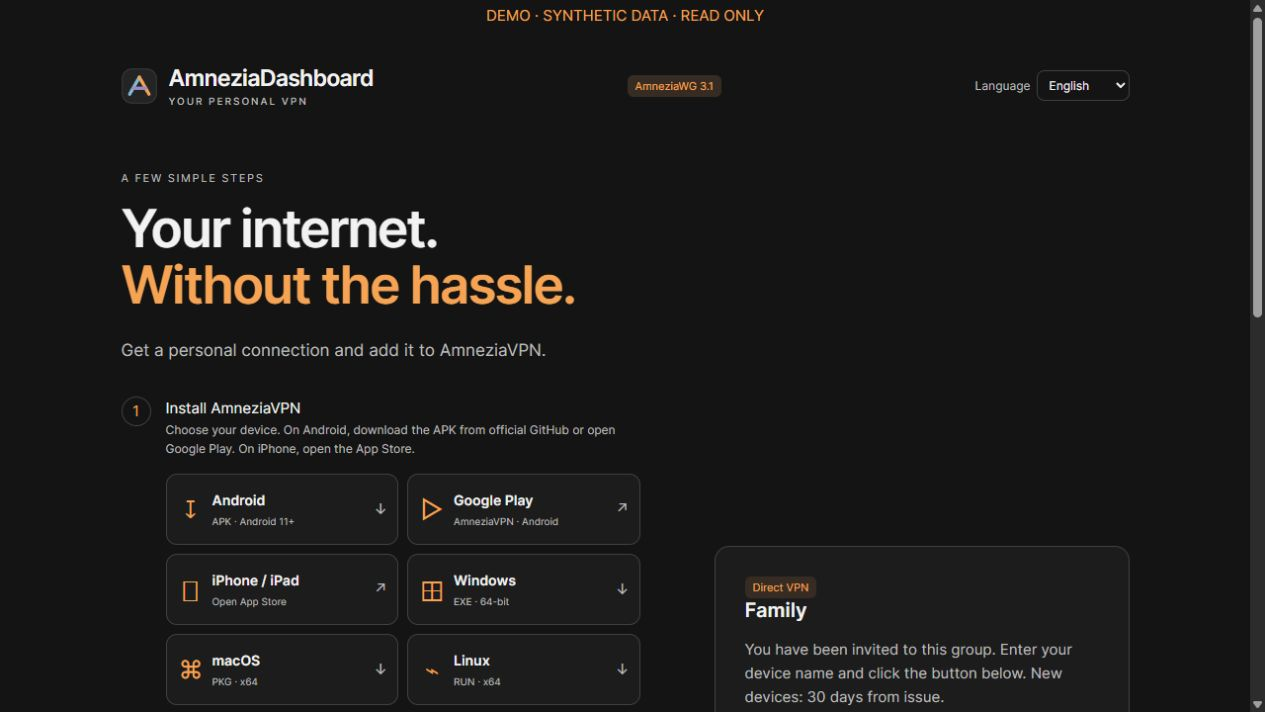
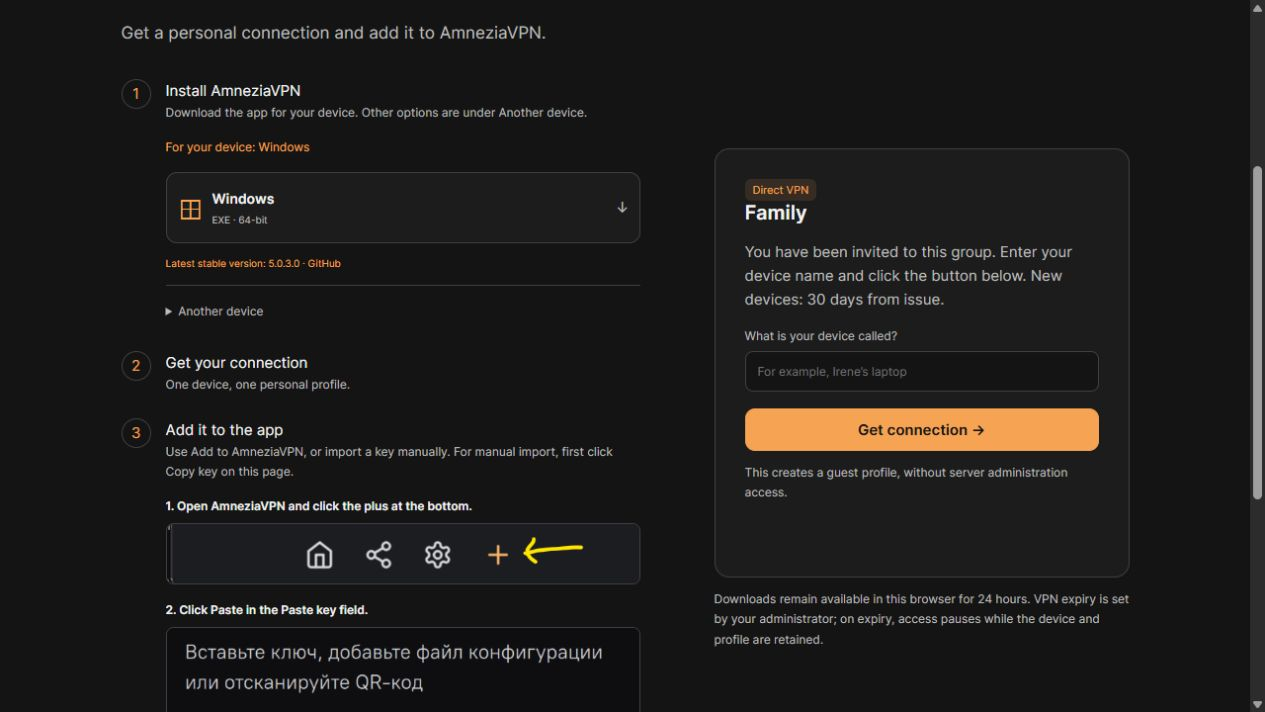
Show invitation app downloads for the detected device OS

diff --git a/installer/portable/app/static/join.html b/installer/portable/app/static/join.html
@@ -1,15 +1,20 @@
-<!doctype html><html lang="ru"><head><meta charset="utf-8"><meta name="viewport" content="width=device-width,initial-scale=1"><meta name="robots" content="noindex,nofollow"><title>AmneziaDashboard — подключить Amnezia VPN</title><link rel="icon" type="image/svg+xml" href="/static/dashboard-icon.svg"><link rel="stylesheet" href="/static/style.css"><script src="/static/i18n-en.js" defer></script><script src="/static/i18n.js" defer></script><script src="/static/client-access.js" defer></script><script src="/static/profile-import.js" defer></script><script src="/static/join.js" defer></script></head><body><main class="join"><header><div class="brand"><img class="logo" src="/static/dashboard-icon.svg" alt="" width="36" height="36"><div>AmneziaDashboard<small>ВАШ ЛИЧНЫЙ VPN</small></div></div><span class="badge">AmneziaWG 3.1</span></header><div class="join-layout"><div><div class="eyebrow">Несколько простых шагов</div><h1>Ваш интернет.<br><span>Без лишних сложностей.</span></h1><p class="lead">Получите персональное подключение и добавьте его в приложение AmneziaVPN.</p><ol class="steps"><li>Установите AmneziaVPN<small>Выберите ваше устройство. На Android можно скачать APK с официального GitHub или открыть Google Play. На iPhone откроется App Store.</small>
-<div class="app-downloads" aria-label="Скачать AmneziaVPN для своего устройства">
-<a class="app-download" href="/download/android" data-platform="android"><span class="app-icon" aria-hidden="true">↧</span><span><strong>Android</strong><small data-download-hint="android">APK · Android 11+</small></span><span class="app-arrow" aria-hidden="true">↓</span></a>
-<a class="app-download" href="https://play.google.com/store/apps/details?id=org.amnezia.vpn" target="_blank" rel="noopener noreferrer"><span class="app-icon" aria-hidden="true">▷</span><span><strong>Google Play</strong><small>AmneziaVPN · Android</small></span><span class="app-arrow" aria-hidden="true">↗</span></a>
-<a class="app-download" href="/download/ios" data-platform="ios"><span class="app-icon" aria-hidden="true">▯</span><span><strong>iPhone / iPad</strong><small data-download-hint="ios">Открыть App Store</small></span><span class="app-arrow" aria-hidden="true">↗</span></a>
-<a class="app-download" href="/download/windows" data-platform="windows"><span class="app-icon" aria-hidden="true">⊞</span><span><strong>Windows</strong><small data-download-hint="windows">EXE · 64 бита</small></span><span class="app-arrow" aria-hidden="true">↓</span></a>
-<a class="app-download" href="/download/macos" data-platform="macos"><span class="app-icon" aria-hidden="true">⌘</span><span><strong>macOS</strong><small data-download-hint="macos">PKG · x64</small></span><span class="app-arrow" aria-hidden="true">↓</span></a>
-<a class="app-download" href="/download/linux" data-platform="linux"><span class="app-icon" aria-hidden="true">⌁</span><span><strong>Linux</strong><small data-download-hint="linux">RUN · x64</small></span><span class="app-arrow" aria-hidden="true">↓</span></a>
+<!doctype html><html lang="ru"><head><meta charset="utf-8"><meta name="viewport" content="width=device-width,initial-scale=1"><meta name="robots" content="noindex,nofollow"><title>AmneziaDashboard — подключить Amnezia VPN</title><link rel="icon" type="image/svg+xml" href="/static/dashboard-icon.svg"><link rel="stylesheet" href="/static/style.css"><script src="/static/i18n-en.js" defer></script><script src="/static/i18n.js" defer></script><script src="/static/client-access.js" defer></script><script src="/static/profile-import.js" defer></script><script src="/static/device-downloads.js" defer></script><script src="/static/join.js" defer></script></head><body><main class="join"><header><div class="brand"><img class="logo" src="/static/dashboard-icon.svg" alt="" width="36" height="36"><div>AmneziaDashboard<small>ВАШ ЛИЧНЫЙ VPN</small></div></div><span class="badge">AmneziaWG 3.1</span></header><div class="join-layout"><div><div class="eyebrow">Несколько простых шагов</div><h1>Ваш интернет.<br><span>Без лишних сложностей.</span></h1><p class="lead">Получите персональное подключение и добавьте его в приложение AmneziaVPN.</p><ol class="steps"><li>Установите AmneziaVPN<small>Скачайте приложение для своего устройства. Остальные варианты доступны в разделе «Другое устройство».</small>
+<small id="device-download-caption" class="download-device" role="status">Выберите приложение для вашего устройства.</small>
+<div id="device-downloads" class="app-downloads" aria-label="Скачать AmneziaVPN для своего устройства">
+<a class="app-download" href="/download/android" data-platform="android" data-device-os="android"><span class="app-icon" aria-hidden="true">↧</span><span><strong>Android</strong><small data-download-hint="android">APK · Android 11+</small></span><span class="app-arrow" aria-hidden="true">↓</span></a>
+<a class="app-download" data-device-os="android" href="https://play.google.com/store/apps/details?id=org.amnezia.vpn" target="_blank" rel="noopener noreferrer"><span class="app-icon" aria-hidden="true">▷</span><span><strong>Google Play</strong><small>AmneziaVPN · Android</small></span><span class="app-arrow" aria-hidden="true">↗</span></a>
+<a class="app-download" href="/download/ios" data-platform="ios" data-device-os="ios"><span class="app-icon" aria-hidden="true">▯</span><span><strong>iPhone / iPad</strong><small data-download-hint="ios">Открыть App Store</small></span><span class="app-arrow" aria-hidden="true">↗</span></a>
+<a class="app-download" href="/download/windows" data-platform="windows" data-device-os="windows"><span class="app-icon" aria-hidden="true">⊞</span><span><strong>Windows</strong><small data-download-hint="windows">EXE · 64 бита</small></span><span class="app-arrow" aria-hidden="true">↓</span></a>
+<a class="app-download" href="/download/macos" data-platform="macos" data-device-os="macos"><span class="app-icon" aria-hidden="true">⌘</span><span><strong>macOS</strong><small data-download-hint="macos">PKG · x64</small></span><span class="app-arrow" aria-hidden="true">↓</span></a>
+<a class="app-download" href="/download/linux" data-platform="linux" data-device-os="linux"><span class="app-icon" aria-hidden="true">⌁</span><span><strong>Linux</strong><small data-download-hint="linux">RUN · x64</small></span><span class="app-arrow" aria-hidden="true">↓</span></a>
 </div>
 <small id="release-version" class="release-version" role="status">Кнопки выбирают последнюю стабильную версию.</small>
-<details class="download-more"><summary>Android 9–10 или старый 32-битный телефон</summary><div class="download-alternatives"><a href="/download/android?os=9">Android 9–10 · 64 бита ↓</a><a href="/download/android?arch=armeabi-v7a&amp;os=9">Android 9–10 · 32 бита ↓</a><a href="/download/android?arch=armeabi-v7a">Android 11+ · 32 бита ↓</a></div></details>
-<small class="download-note">На iPhone приложение может быть недоступно в российском App Store. <a href="https://docs.amnezia.org/troubleshooting/amneziavpn_is_not_available_in_the_app_store/" target="_blank" rel="noopener noreferrer">Что делать ↗</a></small></li><li>Получите своё подключение<small>Одно устройство — один персональный конфиг.</small></li>
+<div id="device-download-notes">
+<details class="download-more" data-device-extra="android"><summary>Android 9–10 или старый 32-битный телефон</summary><div class="download-alternatives"><a href="/download/android?os=9">Android 9–10 · 64 бита ↓</a><a href="/download/android?arch=armeabi-v7a&amp;os=9">Android 9–10 · 32 бита ↓</a><a href="/download/android?arch=armeabi-v7a">Android 11+ · 32 бита ↓</a></div></details>
+<small class="download-note" data-device-extra="ios">На iPhone приложение может быть недоступно в российском App Store. <a href="https://docs.amnezia.org/troubleshooting/amneziavpn_is_not_available_in_the_app_store/" target="_blank" rel="noopener noreferrer">Что делать ↗</a></small>
+</div>
+<details id="other-device-downloads" class="download-other" hidden><summary>Другое устройство</summary><div id="other-device-options" class="app-downloads"></div><div id="other-device-notes"></div></details>
+</li><li>Получите своё подключение<small>Одно устройство — один персональный конфиг.</small></li>
 <li>Добавьте его в приложение<small>Можно нажать «Добавить в AmneziaVPN» или добавить подключение вручную по ключу. Для ручного добавления сначала нажмите «Скопировать ключ» на этой странице.</small>
 <div class="key-import-guide" aria-label="Как вставить ключ в AmneziaVPN">
 <figure><figcaption><strong>1. Откройте AmneziaVPN и нажмите «+» внизу окна.</strong></figcaption><img src="/static/amnezia-add-key.png" alt="Нижнее меню AmneziaVPN: жёлтая стрелка указывает на кнопку плюс справа." width="666" height="84" loading="lazy" decoding="async"></figure>

diff --git a/installer/portable/app/static/style.css b/installer/portable/app/static/style.css
@@ -19,4 +19,5 @@ button:focus-visible,a:focus-visible,input:focus-visible,select:focus-visible{ou
 .traffic-limit-fields{display:grid;grid-template-columns:minmax(0,1fr) 95px;gap:12px}.quota-progress{display:block;width:100%;max-width:160px;height:5px;margin-top:7px;accent-color:var(--accent)}.quota-summary{line-height:1.5}
 .key-import-guide{display:grid;gap:16px;max-width:666px;margin-top:16px;min-width:0}.key-import-guide figure{margin:0;min-width:0}.key-import-guide figcaption{font-size:12px;line-height:1.6;margin-bottom:8px;color:var(--text)}.key-import-guide img{display:block;width:100%;height:auto;border:1px solid var(--line);border-radius:8px}
 .language-switch{display:inline-flex;align-items:center;gap:6px;font-size:12px;color:var(--muted);margin:0}.language-switch select{width:auto;min-width:94px;margin:0;padding:6px 8px;font:inherit}.login .brand{flex-wrap:wrap}.login .language-switch{margin-left:auto}.topbar>.actions{flex-wrap:wrap}.join>header{gap:12px;flex-wrap:wrap}
+.steps .download-device{display:block;color:var(--accent);font-size:12px;margin-top:16px}.app-downloads.device-matched{grid-template-columns:1fr}.download-other{margin-top:14px;border-top:1px solid var(--line);padding-top:10px;font-size:12px;color:var(--muted)}.download-other>summary{cursor:pointer;padding:6px 0}.download-other[hidden]{display:none}.download-other .app-downloads{margin-top:10px}.download-other>summary:focus-visible{outline:2px solid var(--accent);outline-offset:4px;border-radius:4px}
 .traffic-toolbar{display:flex;justify-content:space-between;align-items:center;gap:14px;margin:0 0 18px;flex-wrap:wrap}.traffic-toolbar .traffic-caption{margin:0}.traffic-periods{display:flex;gap:5px}.traffic-period{padding:6px 11px;font-size:11px}.traffic-period[aria-pressed=true]{color:var(--accent);border-color:var(--accent);background:var(--orange-soft)}.traffic-coverage{font-size:11px;color:var(--muted);margin:5px 0 8px}.traffic-bar-tx{fill:var(--accent)}.traffic-bar-rx{fill:#7EBAD2}.traffic-zero{stroke:var(--line);stroke-width:3}.traffic-bar-hit,.traffic-bar-hit.is-selected{fill:transparent;stroke:none;cursor:crosshair}.traffic-bar-selection{fill:none;stroke:var(--purple);stroke-width:1.5;vector-effect:non-scaling-stroke;pointer-events:none;opacity:0}.traffic-bar-selection.is-selected{opacity:1}.traffic-svg:focus-visible{outline:2px solid var(--accent);outline-offset:4px;border-radius:6px}.traffic-readout{display:grid;grid-template-columns:minmax(180px,1fr) minmax(300px,2fr);gap:8px 20px;padding:13px 16px}.traffic-readout>strong{margin:0;align-self:center}.traffic-readout>small{grid-column:1/-1;margin:0}.traffic-chart .help{margin-top:12px}@media(max-width:620px){.traffic-readout{grid-template-columns:1fr;gap:12px}.traffic-toolbar{gap:11px}.traffic-summary{gap:10px}.traffic-tooltip{top:4px}.traffic-period{padding:6px 9px}.traffic-coverage{line-height:1.7}}

diff --git a/installer/portable/app/static/device-downloads.js b/installer/portable/app/static/device-downloads.js
@@ -1,0 +1,32 @@
+var tr=value=>globalThis.DashboardI18n?globalThis.DashboardI18n.text(value):value;
+(function(root,factory){'use strict';const api=factory();if(typeof module==='object'&&module.exports)module.exports=api;else root.DeviceDownloads=api;})(globalThis,function(){
+  'use strict';
+  const names={android:'Android',ios:'iPhone / iPad',windows:'Windows',macos:'macOS',linux:'Linux'};
+  function detect(nav={}){
+    const ua=String(nav.userAgent||''),platform=String(nav.platform||'');let hint='';
+    // Low-entropy information only; no high-entropy hints or external detector.
+    try{hint=String(nav.userAgentData?.platform||'');}catch{}
+    if(/Windows Phone|IEMobile|CrOS/i.test(ua)||/Chrome OS|Chromium OS/i.test(hint))return null;
+    if(/Android/i.test(ua)||/^Android$/i.test(hint))return 'android';
+    if(/iPhone|iPad|iPod/i.test(ua+' '+platform)||(/^iOS$/i.test(hint))||
+       ((/Macintosh/i.test(ua)||/^MacIntel$/i.test(platform))&&Number(nav.maxTouchPoints)>1))return 'ios';
+    if(/Windows NT/i.test(ua)||/^Windows$/i.test(hint)||/^Win/i.test(platform))return 'windows';
+    if(/Macintosh|Mac OS X/i.test(ua)||/^macOS$/i.test(hint)||/^Mac/i.test(platform))return 'macos';
+    if(/Linux/i.test(ua)||/^Linux$/i.test(hint)||/^Linux/i.test(platform))return 'linux';
+    return null;
+  }
+  function mount(doc,nav={}){
+    const main=doc.querySelector('#device-downloads'),other=doc.querySelector('#other-device-downloads'),
+      options=doc.querySelector('#other-device-options'),notes=doc.querySelector('#other-device-notes'),caption=doc.querySelector('#device-download-caption');
+    if(!main||!other||!options||!notes||!caption)return null;
+    const os=detect(nav);caption.textContent=os?tr('Для вашего устройства: ')+names[os]:tr('Выберите приложение для вашего устройства.');
+    // Move the original links, never rebuild URLs or affect issued profiles.
+    // Repeated mounting also restores cards/extras to the appropriate location.
+    for(const link of doc.querySelectorAll('[data-device-os]'))(os&&link.dataset.deviceOs!==os?options:main).append(link);
+    const extras=doc.querySelector('#device-download-notes');
+    if(extras)for(const extra of doc.querySelectorAll('[data-device-extra]'))(os&&extra.dataset.deviceExtra!==os?notes:extras).append(extra);
+    main.classList.toggle('device-matched',Boolean(os));other.hidden=!os;other.open=false;
+    return os;
+  }
+  return {detect,mount};
+});

diff --git a/installer/portable/app/static/i18n-en.js b/installer/portable/app/static/i18n-en.js
@@ -1,5 +1,6 @@
 'use strict';
 globalThis.DashboardEnglish={
+  'Для вашего устройства: ':'For your device: ','Выберите приложение для вашего устройства.':'Choose the app for your device.','Другое устройство':'Another device','Скачайте приложение для своего устройства. Остальные варианты доступны в разделе «Другое устройство».':'Download the app for your device. Other options are under Another device.',
   '32 бит':'32-bit','универсальный':'universal',
   'До ':'Until ','Будет создан отдельный гостевой профиль ':'A separate guest profile will be created for ','. Файл можно скачать в строке устройства.':'. Download the file from the device row.',
   'Язык':'Language','Обзор':'Overview','Всё под контролем':'Everything at a glance','Устройства':'Devices','Ваши подключения':'Your connections','Группы':'Groups','Вместе проще':'Better together','Администраторы':'Administrators','Команда управления':'Access management','Журнал':'Activity log','История действий':'Activity history','Мой аккаунт':'My account','Настройки доступа':'Account settings',

diff --git a/installer/portable/app/static/join.js b/installer/portable/app/static/join.js
@@ -3,6 +3,7 @@ var tr=value=>globalThis.DashboardI18n?globalThis.DashboardI18n.text(value):valu
 
 const $=s=>document.querySelector(s), token=location.pathname.startsWith('/j/')?location.pathname.slice(3):'';
 let device,profileRequest=null,preparedImport=null;
+globalThis.DeviceDownloads?.mount(document,navigator);
 fetch('/api/downloads').then(async r=>{if(!r.ok)return;const release=await r.json();$('#release-version').textContent=tr('Последняя стабильная версия: ')+release.version+' · GitHub';for(const [platform,asset] of Object.entries(release.platforms)){const hint=document.querySelector('[data-download-hint="'+platform+'"]');if(hint)hint.textContent=tr(asset.hint)}}).catch(()=>{});
 function error(s){$('#join-error').textContent=s}
 function ready(){$('#request-view').classList.add('hidden');$('#ready-view').classList.remove('hidden');$('#issued-expiry').textContent=device&&Object.hasOwn(device,'expires_at')?(device.expires_at==null?tr('При выдаче: без ограничения срока.'):tr('При выдаче доступ до ')+ClientAccess.format(device.expires_at)):'';error('');prepareImport()}

diff --git a/installer/version.py b/installer/version.py
@@ -1,1 +1,1 @@
-VERSION='1.1.0'
+VERSION='1.1.1'

diff --git a/docs/RELEASE_NOTES.md b/docs/RELEASE_NOTES.md
@@ -1,27 +1,25 @@
-# AmneziaDashboard 1.1.0 — Русский / English · Windows Setup
+# AmneziaDashboard 1.1.1 — Download for your device / Загрузка для вашего устройства
 
-## New / Что нового
+Invitation pages now detect the device OS and show only relevant downloads by default:
 
-- Russian and English throughout the dashboard, invitation guide, system errors and terminal wizard. Language selection never rewrites user names or VPN payloads.
-- Self-contained Windows x64 GUI: Python, Tk and SSH/crypto libraries included. Direct and two-server cascade installation, with verified backups and explicit SSH fingerprint/plan approval.
-- Optional official AmneziaVPN Windows client download with mandatory SHA-256 verification before opening its normal installer.
-- Detailed RU/EN guides with actual application screenshots using synthetic DEMO data only.
+- Android: APK and Google Play.
+- iPhone/iPad: App Store, including iPadOS using a desktop-style browser.
+- Windows, macOS and Linux: the matching official app download.
+- Another device reveals other platforms; unknown OS retains manual choices.
 
-Русский и английский интерфейс, готовый Windows EXE без ручной установки Python, две схемы установки, проверка загрузки клиента AmneziaVPN и подробные инструкции со скриншотами.
+На пригласительной странице теперь показывается загрузка для ОС текущего устройства. Остальные варианты спрятаны под «Другое устройство». Определение выполняется локально, без стороннего сервиса; ничего не скачивается и профиль не создаётся автоматически.
+
+Latest stable upstream resolution, manual import, issued configs, subscriptions, keys, database and lifetime counters are unchanged. Russian and English are supported; invitation screenshots are updated.
 
 ## Downloads / Скачать
 
-- **AmneziaDashboardSetup.exe** — Windows 10/11 x64, embedded dependencies; unsigned.
-- **AmneziaDashboard.zip** — full source package; Python 3.12+ for source/terminal mode.
+- **AmneziaDashboardSetup.exe** — self-contained Windows 10/11 x64 setup, unsigned.
+- **AmneziaDashboard.zip** — complete source package.
 - **Windows-licenses.zip** — bundled dependency/runtime notices.
-- **SHA256SUMS** — checksums for the three files above. Use files from this same release.
+- **SHA256SUMS** — verify files from this same release.
 
-[Русская инструкция](https://github.com/AstolfoSan/AmneziaDashboard/blob/v1.1.0/docs/INSTALL_RU.md) · [English guide](https://github.com/AstolfoSan/AmneziaDashboard/blob/v1.1.0/docs/INSTALL_EN.md)
+[Русская инструкция](https://github.com/AstolfoSan/AmneziaDashboard/blob/v1.1.1/docs/INSTALL_RU.md) · [English guide](https://github.com/AstolfoSan/AmneziaDashboard/blob/v1.1.1/docs/INSTALL_EN.md)
 
-> **Fresh-VPS acceptance remains pending.** Windows build/offline tests and UI screenshots do not prove a full clean Linux installation. Use separately authorized test VPSs first. Do not rerun the fresh installer over a working VPN.
->
-> Полный прогон на чистых VPS и реальных iOS/Android пока не выполнен. На действующих серверах эта публикация ничего не меняет.
+327 automated tests and five engine-free Compose variants are checked. Browser QA uses synthetic data; physical phone acceptance and full clean-VPS provisioning remain pending. Do not rerun the fresh installer over a working VPN. There is no automatic in-place updater.
 
-No VPN keys, issued profiles, subscriptions, database schema or lifetime totals are replaced by localization. There is no automatic in-place updater; existing installations need a verified backup and reviewed code/image migration plan.
-
-No production IPs, credentials, private databases, issued profiles or invitations are included. Original code: MIT; third-party rights remain applicable.
+This publication does not change live servers. No production addresses, credentials, databases, issued profiles or invitations are included. Original code: MIT; third-party rights remain applicable.

diff --git a/README.md b/README.md
@@ -4,7 +4,7 @@
   <p>A clear home for your self-hosted VPN.</p>
   <p><strong>Profiles · People · Traffic · Access</strong></p>
   <p><a href="README_RU.md">Русский</a> · English · <a href="docs/INSTALL_EN.md">Installation</a> · <a href="https://github.com/AstolfoSan/AmneziaDashboard/releases">Downloads</a></p>
-  <img alt="Version 1.1.0" src="https://img.shields.io/badge/version-1.1.0-F6A453">
+  <img alt="Version 1.1.1" src="https://img.shields.io/badge/version-1.1.1-F6A453">
   <img alt="MIT License" src="https://img.shields.io/badge/license-MIT-9B8BC1">
   <img alt="Self hosted" src="https://img.shields.io/badge/self--hosted-AmneziaWG-7EBAD2">
 </div>
@@ -17,7 +17,7 @@ devices by administrator and group, and understand usage without editing configs
 by hand. It is not an official Amnezia product or a VPN subscription service.
 
 > [!IMPORTANT]
-> **1.1.0 identifies this source/package release, not completed fresh-VPS acceptance.**
+> **1.1.1 identifies this source/package release, not completed fresh-VPS acceptance.**
 > The dashboard has automated regression tests. The new direct/cascade installer
 > still needs end-to-end acceptance on clean Ubuntu VPSs and real client devices.
 > Do not run it over an existing production VPN. See [validation](VALIDATION.json).
@@ -25,6 +25,7 @@ by hand. It is not an official Amnezia product or a VPN subscription service.
 ### What is included
 
 - Personal `.vpn` downloads, native import links and illustrated import help.
+- Device-aware app downloads: Android, iPhone/iPad, Windows, macOS and Linux; other systems stay collapsed.
 - Super-administrator → administrator → group → device hierarchy.
 - Invitations, per-device access pause, expiry and total traffic limits.
 - Default access duration for newly issued group profiles.

diff --git a/docs/INSTALL_RU.md b/docs/INSTALL_RU.md
@@ -1,4 +1,4 @@
-# Установка AmneziaDashboard 1.1.0
+# Установка AmneziaDashboard 1.1.1
 
 [English](INSTALL_EN.md) · [Главная](../README_RU.md) · [Все версии](https://github.com/AstolfoSan/AmneziaDashboard/releases)
 
@@ -136,7 +136,7 @@ Get-FileHash .\AmneziaDashboardSetup.exe -Algorithm SHA256
 ![Страница подключения на русском](images/join-ru.png)
 
 1. Откройте приглашение группы.
-2. В первом шаге выберите Android APK / Google Play, iPhone/iPad App Store, Windows, macOS или Linux. Прямые файлы выбираются из актуального стабильного релиза AmneziaVPN.
+2. Первый шаг определяет ОС и показывает только подходящие загрузки: Android APK / Google Play, App Store для iPhone/iPad, Windows, macOS или Linux. Если определение ошиблось или нужен другой компьютер, откройте **Другое устройство**. Для неизвестной ОС сразу доступны все варианты. Прямые файлы по-прежнему выбираются из актуального стабильного релиза AmneziaVPN.
 3. Установите приложение.
 4. Вернитесь на страницу, задайте имя устройства и нажмите **Получить подключение**.
 5. Нажмите **Добавить в AmneziaVPN** и подтвердите импорт в приложении. iOS может открыть меню «Поделиться»: выберите AmneziaVPN.

diff --git a/docs/INSTALL_EN.md b/docs/INSTALL_EN.md
@@ -1,4 +1,4 @@
-# Installing AmneziaDashboard 1.1.0
+# Installing AmneziaDashboard 1.1.1
 
 [Русский](INSTALL_RU.md) · [Home](../README.md) · [Releases](https://github.com/AstolfoSan/AmneziaDashboard/releases)
 
@@ -136,7 +136,7 @@ For unlimited duration: **Expiry → ∞ No expiry → Save expiry**. Remove man
 ![Connection guide in English](images/join-en.png)
 
 1. Open your group invitation.
-2. Choose Android APK / Google Play, iPhone/iPad App Store, Windows, macOS or Linux. Direct downloads resolve the latest stable official AmneziaVPN release.
+2. The first step detects your OS and shows only matching downloads: Android APK / Google Play, iPhone/iPad App Store, Windows, macOS or Linux. Open **Another device** if detection is wrong or you need a different device. Unknown systems retain all manual choices. Direct downloads still resolve the latest stable official AmneziaVPN release.
 3. Install the application.
 4. Return to the invitation, name the device and click **Get connection**.
 5. Click **Add to AmneziaVPN**, then confirm import in the app. iOS may show Share: choose AmneziaVPN.

diff --git a/CHANGELOG.md b/CHANGELOG.md
@@ -9,6 +9,16 @@ All user-visible changes are recorded here. Versions follow Semantic Versioning.
 - Clean-VPS direct/cascade acceptance and real-device validation.
 - Reviewed in-place upgrade/migration tooling; the installer remains fresh-only.
 
+## [1.1.1] — 2026-10-26
+
+### Improved / Улучшено
+
+- Invitation links detect Android, iPhone/iPad (including desktop-style iPadOS), Windows, macOS and Linux locally in the browser.
+- Only downloads for the current OS appear by default. Android keeps both APK and Google Play; other platforms and compatibility help remain under Another device.
+- Unknown/unsupported OS and unavailable JavaScript retain manual download options. Detection never starts downloads or issues VPN profiles automatically.
+- Russian/English captions, updated invitation screenshots and nine regression tests.
+- No VPN, credentials, database, lifetime meters or existing profile/subscription changes.
+
 ## [1.1.0] — 2026-10-26
 
 ### Added / Добавлено
